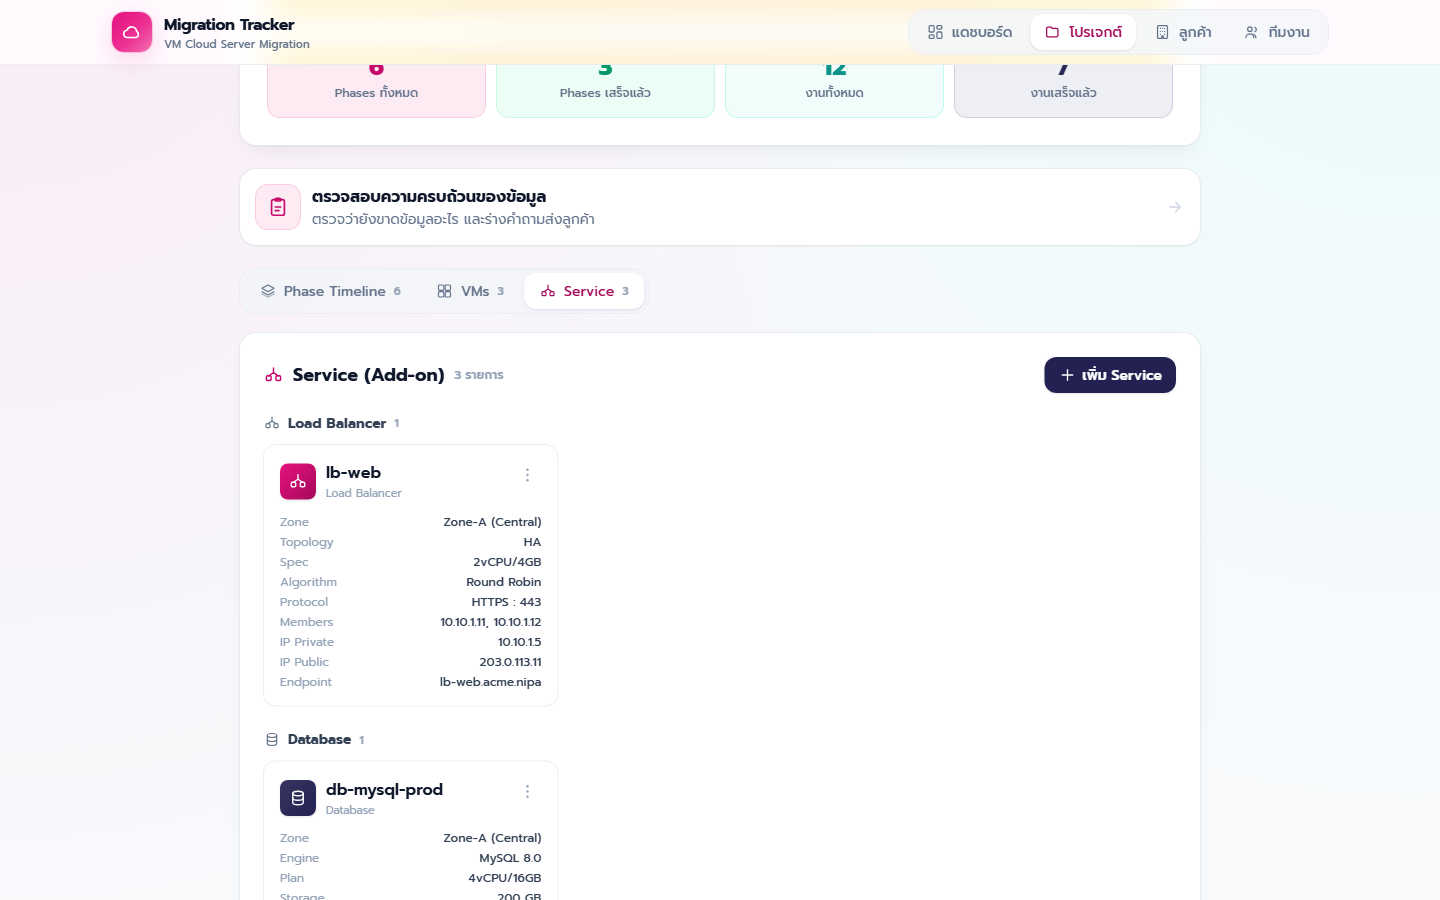
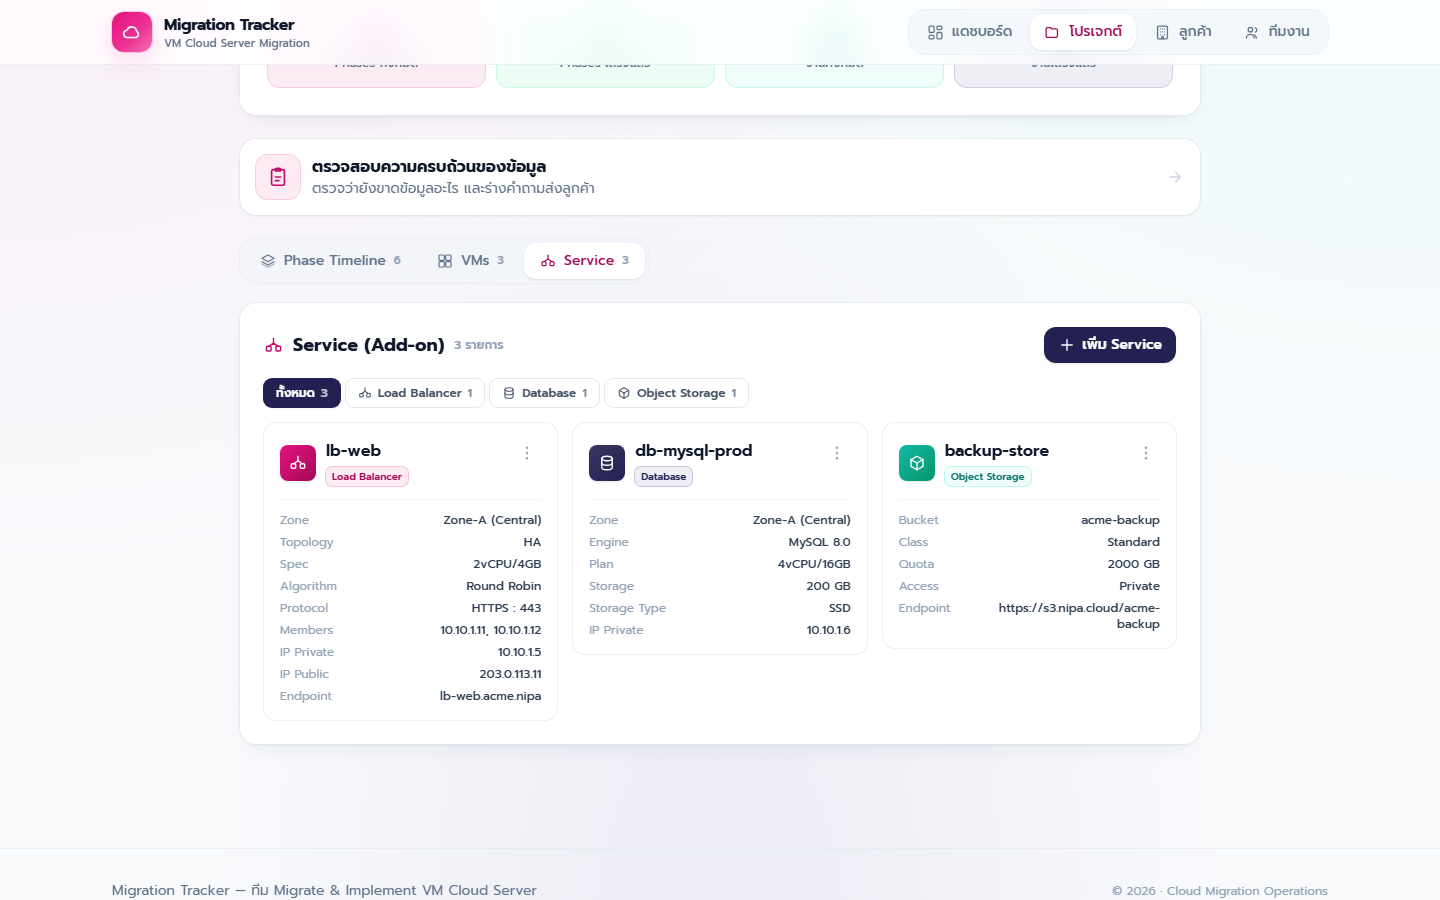
Fix Service tab layout: single full-width grid with type filter chips
เดิมแบ่งเป็น section ตามประเภทบริการ แล้วแต่ละ section มี grid 3 คอลัมน์ของตัวเอง
พอมีบริการประเภทละ 1 รายการ การ์ดเลยเหลือแถวละใบ ที่ว่างขวามือ ~2/3 และหน้ายาวเกินจำเป็น

เปลี่ยนเป็น grid เดียวเต็มความกว้าง เรียงตามประเภท และย้ายการแบ่งกลุ่มไปเป็นปุ่มกรอง
พร้อมจำนวนแทน — การ์ดจึงเรียงเต็มแถว (3 ใบใน 1 แถวที่จอ 1440px) และความสูงของ panel
ลดจากสามเท่าเหลือแถวเดียว

ปรับการ์ดเพิ่ม: ใส่ chip บอกประเภทให้ยังรู้ประเภทได้แม้ไม่มี section header,
เส้นคั่นก่อนรายการฟิลด์, hover ring ให้เหมือนการ์ด VM และให้ค่าที่ยาว
(Members / Endpoint / Bucket) ขึ้นบรรทัดใหม่แทนถูกตัดข้อความ

อัปเดตภาพ 05-services.png ใน README ให้ตรงกับ layout ใหม่

diff --git a/src/components/ServicePanel.tsx b/src/components/ServicePanel.tsx
@@ -1,4 +1,4 @@
-import { useState } from 'react'
+import { useMemo, useState } from 'react'
 import { Project, Service, ServiceType } from '../types/project'
 import { useProjects } from '../store/ProjectStore'
 import ActionMenu from './ActionMenu'
@@ -7,12 +7,27 @@ import ImportAssetsModal from './ImportAssetsModal'
 import ConfirmDialog from './ConfirmDialog'
 import { IconBalance, IconDatabase, IconBox, IconPlus, IconPencil, IconTrash, IconRows } from './Icons'
 
-const META: Record<ServiceType, { Icon: typeof IconBalance; tint: string }> = {
-  'Load Balancer': { Icon: IconBalance, tint: 'from-brand-500 to-brand-700' },
-  Database: { Icon: IconDatabase, tint: 'from-navy-500 to-navy-700' },
-  'Object Storage': { Icon: IconBox, tint: 'from-teal-500 to-emerald-600' },
+const META: Record<ServiceType, { Icon: typeof IconBalance; tint: string; chip: string }> = {
+  'Load Balancer': {
+    Icon: IconBalance,
+    tint: 'from-brand-500 to-brand-700',
+    chip: 'bg-brand-50 text-brand-700 ring-brand-200/70',
+  },
+  Database: {
+    Icon: IconDatabase,
+    tint: 'from-navy-500 to-navy-700',
+    chip: 'bg-navy-50 text-navy-700 ring-navy-200/70',
+  },
+  'Object Storage': {
+    Icon: IconBox,
+    tint: 'from-teal-500 to-emerald-600',
+    chip: 'bg-teal-50 text-teal-700 ring-teal-200/70',
+  },
 }
 const ORDER: ServiceType[] = ['Load Balancer', 'Database', 'Object Storage']
+
+/** ค่าที่ยาวและควรขึ้นบรรทัดใหม่แทนการตัดข้อความ */
+const WRAP_LABELS = new Set(['Members', 'Endpoint', 'Bucket'])
 
 function rowsFor(sv: Service): { label: string; value: string }[] {
   const rows: { label: string; value: string }[] = []
@@ -51,13 +66,27 @@ export default function ServicePanel({ project, active }: { project: Project; ac
   const [modal, setModal] = useState<{ open: boolean; service: Service | null }>({ open: false, service: null })
   const [toDelete, setToDelete] = useState<Service | null>(null)
   const [importOpen, setImportOpen] = useState(false)
+  const [filter, setFilter] = useState<ServiceType | 'all'>('all')
 
   const services = project.services ?? []
+
+  const countOf = (t: ServiceType) => services.filter((s) => s.type === t).length
+
+  // เรียงตามประเภทเสมอ เพื่อให้การ์ดประเภทเดียวกันอยู่ติดกันแม้ไม่ได้แบ่ง section
+  const visible = useMemo(() => {
+    const list = filter === 'all' ? services : services.filter((s) => s.type === filter)
+    return [...list].sort((a, b) => ORDER.indexOf(a.type) - ORDER.indexOf(b.type))
+  }, [services, filter])
+
+  const chipCls = (on: boolean) =>
+    `inline-flex items-center gap-1.5 px-3 py-1.5 rounded-lg text-xs font-semibold ring-1 transition-all ${
+      on ? 'bg-navy-700 text-white ring-navy-700 shadow-soft' : 'bg-white text-ink-600 ring-ink-200 hover:ring-ink-300 hover:bg-ink-50'
+    }`
 
   return (
     <div className={active ? '' : 'hidden'}>
       <div className="bg-white rounded-2xl ring-1 ring-ink-200/70 shadow-card p-5 sm:p-6">
-        <div className="flex items-center justify-between gap-3 mb-5">
+        <div className="flex items-center justify-between gap-3 mb-4">
           <div className="flex items-center gap-2.5">
             <IconBalance width={19} height={19} className="text-brand-600" />
             <h2 className="text-lg font-bold text-ink-900">Service (Add-on)</h2>
@@ -83,58 +112,75 @@ export default function ServicePanel({ project, active }: { project: Project; ac
             </button>
           </div>
         ) : (
-          <div className="space-y-6">
-            {ORDER.map((type) => {
-              const items = services.filter((s) => s.type === type)
-              if (!items.length) return null
-              const { Icon } = META[type]
-              return (
-                <section key={type}>
-                  <div className="flex items-center gap-2 mb-3">
-                    <Icon width={16} height={16} className="text-ink-500" />
-                    <h3 className="text-sm font-bold text-ink-700">{type}</h3>
-                    <span className="text-[11px] font-semibold text-ink-400 tabular-nums">{items.length}</span>
-                  </div>
-                  <div className="grid grid-cols-1 md:grid-cols-2 xl:grid-cols-3 gap-4">
-                    {items.map((sv) => {
-                      const { Icon: SvIcon, tint } = META[sv.type]
-                      return (
-                        <div key={sv.id} className="rounded-xl ring-1 ring-ink-200/70 bg-white p-4 hover:shadow-card transition-shadow">
-                          <div className="flex items-start justify-between gap-2">
-                            <div className="flex items-center gap-2.5 min-w-0">
-                              <span className={`w-9 h-9 shrink-0 rounded-lg bg-gradient-to-br ${tint} text-white flex items-center justify-center shadow-soft`}>
-                                <SvIcon width={18} height={18} />
-                              </span>
-                              <div className="min-w-0">
-                                <h4 className="font-semibold text-ink-900 truncate">{sv.name}</h4>
-                                <p className="text-[11px] text-ink-400">{sv.type}</p>
-                              </div>
-                            </div>
-                            <ActionMenu
-                              ariaLabel="ตัวเลือก Service"
-                              buttonClassName="w-7 h-7 rounded-lg text-ink-400 hover:text-ink-700 hover:bg-ink-100 flex items-center justify-center transition-colors"
-                              items={[
-                                { label: 'แก้ไข', icon: <IconPencil width={16} height={16} />, onClick: () => setModal({ open: true, service: sv }) },
-                                { label: 'ลบ', danger: true, icon: <IconTrash width={16} height={16} />, onClick: () => setToDelete(sv) },
-                              ]}
-                            />
-                          </div>
-                          <dl className="mt-3 space-y-1">
-                            {rowsFor(sv).map((r, i) => (
-                              <div key={i} className="flex justify-between gap-3 text-xs">
-                                <dt className="text-ink-400 shrink-0">{r.label}</dt>
-                                <dd className="text-ink-700 font-medium truncate text-right">{r.value}</dd>
-                              </div>
-                            ))}
-                          </dl>
+          <>
+            {/* ตัวกรองตามประเภท — แทนการแบ่ง section ที่ทำให้การ์ดเหลือแถวละใบ */}
+            <div className="flex flex-wrap items-center gap-1.5 mb-4">
+              <button type="button" onClick={() => setFilter('all')} className={chipCls(filter === 'all')}>
+                ทั้งหมด
+                <span className="tabular-nums opacity-70">{services.length}</span>
+              </button>
+              {ORDER.map((t) => {
+                const n = countOf(t)
+                if (!n) return null
+                const { Icon } = META[t]
+                return (
+                  <button key={t} type="button" onClick={() => setFilter(t)} className={chipCls(filter === t)}>
+                    <Icon width={14} height={14} />
+                    {t}
+                    <span className="tabular-nums opacity-70">{n}</span>
+                  </button>
+                )
+              })}
+            </div>
+
+            <div className="grid grid-cols-1 sm:grid-cols-2 xl:grid-cols-3 gap-4 items-start">
+              {visible.map((sv) => {
+                const { Icon: SvIcon, tint, chip } = META[sv.type]
+                return (
+                  <div
+                    key={sv.id}
+                    className="rounded-xl ring-1 ring-ink-200/70 bg-white p-4 hover:shadow-card hover:ring-brand-200 transition-all"
+                  >
+                    <div className="flex items-start justify-between gap-2">
+                      <div className="flex items-center gap-2.5 min-w-0">
+                        <span className={`w-9 h-9 shrink-0 rounded-lg bg-gradient-to-br ${tint} text-white flex items-center justify-center shadow-soft`}>
+                          <SvIcon width={18} height={18} />
+                        </span>
+                        <div className="min-w-0">
+                          <h4 className="font-semibold text-ink-900 truncate">{sv.name}</h4>
+                          <span className={`inline-flex mt-0.5 text-[10px] font-semibold px-1.5 py-0.5 rounded-md ring-1 ${chip}`}>
+                            {sv.type}
+                          </span>
                         </div>
-                      )
-                    })}
+                      </div>
+                      <ActionMenu
+                        ariaLabel="ตัวเลือก Service"
+                        buttonClassName="w-7 h-7 shrink-0 rounded-lg text-ink-400 hover:text-ink-700 hover:bg-ink-100 flex items-center justify-center transition-colors"
+                        items={[
+                          { label: 'แก้ไข', icon: <IconPencil width={16} height={16} />, onClick: () => setModal({ open: true, service: sv }) },
+                          { label: 'ลบ', danger: true, icon: <IconTrash width={16} height={16} />, onClick: () => setToDelete(sv) },
+                        ]}
+                      />
+                    </div>
+                    <dl className="mt-3 pt-3 border-t border-ink-100 space-y-1.5">
+                      {rowsFor(sv).map((r, i) => (
+                        <div key={i} className="flex justify-between items-baseline gap-3 text-xs">
+                          <dt className="text-ink-400 shrink-0">{r.label}</dt>
+                          <dd
+                            className={`text-ink-700 font-medium text-right min-w-0 ${
+                              WRAP_LABELS.has(r.label) ? 'break-words' : 'truncate'
+                            }`}
+                          >
+                            {r.value}
+                          </dd>
+                        </div>
+                      ))}
+                    </dl>
                   </div>
-                </section>
-              )
-            })}
-          </div>
+                )
+              })}
+            </div>
+          </>
         )}
       </div>
 
